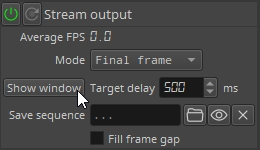
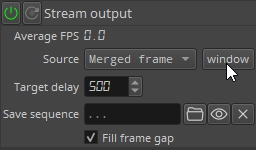
upd setup tutorial

diff --git a/doc/setup_tutorial_windows/index.md b/doc/setup_tutorial_windows/index.md
@@ -76,7 +76,7 @@
 </td></tr>
 <tr><td colspan=2 align="center">
 
-### in **_Stream output_** choose **_Mode_** : **_Final Frame_** and press **_Show window_**
+### in **_Stream output_** choose **_Mode_** : **_Merged frame_** and press **_window_**
 
 <img src="stream_output.jpg"></img>
 
